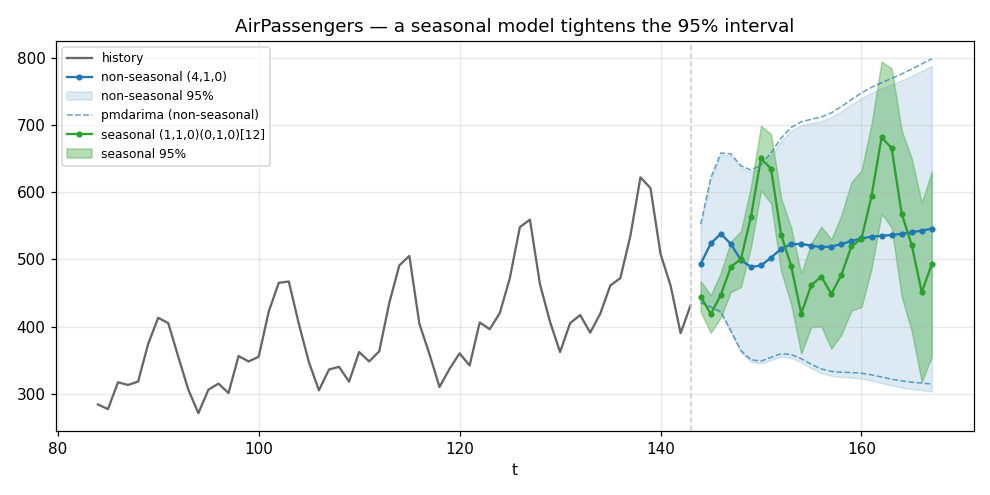
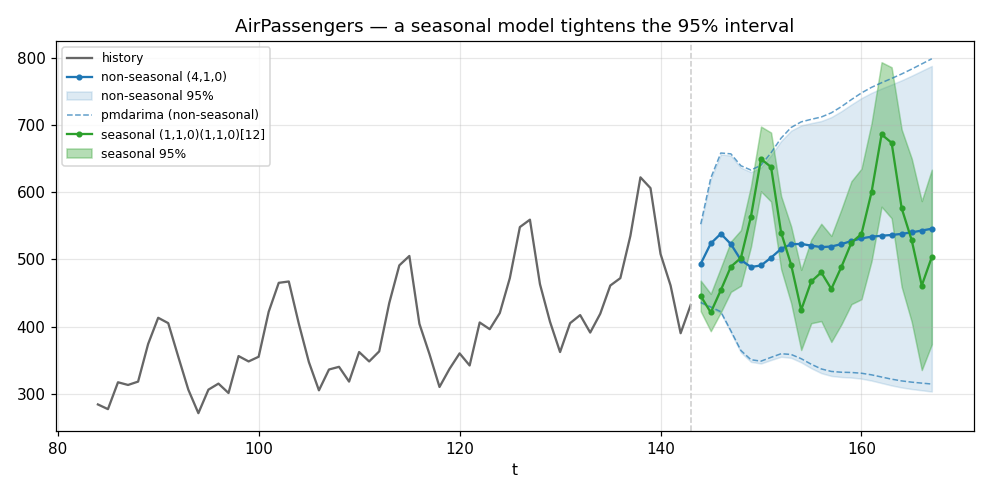
Carry seasonal AR/MA orders through the interval example refit

Changed region(s): [[0.7879, 0.2727, 0.9697, 0.7576], [0.697, 0.5152, 0.7576, 0.6667], [0.7576, 0.3333, 0.7879, 0.3636]]

diff --git a/example/main.go b/example/main.go
@@ -127,13 +127,13 @@ func fitAutoSeasonalMLE(series []float64, period int) (*goarima.ARIMA, string, e
 		return nil, "", err
 	}
 	p, d, q := model.Orders()
-	_, bigD, _, m := model.SeasonalOrders()
-	if refined, rerr := goarima.NewSARIMA(p, d, q, 0, bigD, 0, m); rerr == nil {
+	bigP, bigD, bigQ, m := model.SeasonalOrders()
+	if refined, rerr := goarima.NewSARIMA(p, d, q, bigP, bigD, bigQ, m); rerr == nil {
 		if refined.Fit(series, goarima.WithMLE()) == nil {
 			model = refined
 		}
 	}
-	return model, fmt.Sprintf("ARIMA(%d,%d,%d)(0,%d,0)[%d]", p, d, q, bigD, m), nil
+	return model, fmt.Sprintf("ARIMA(%d,%d,%d)(%d,%d,%d)[%d]", p, d, q, bigP, bigD, bigQ, m), nil
 }
 
 // printInterval prints one [goarima-interval] block: a key identifying the band,